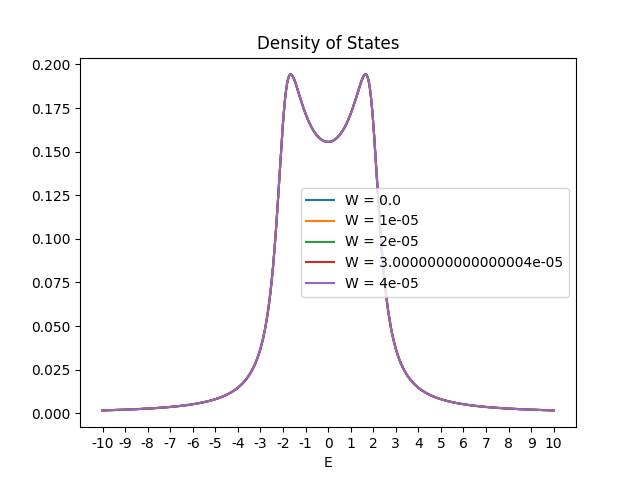
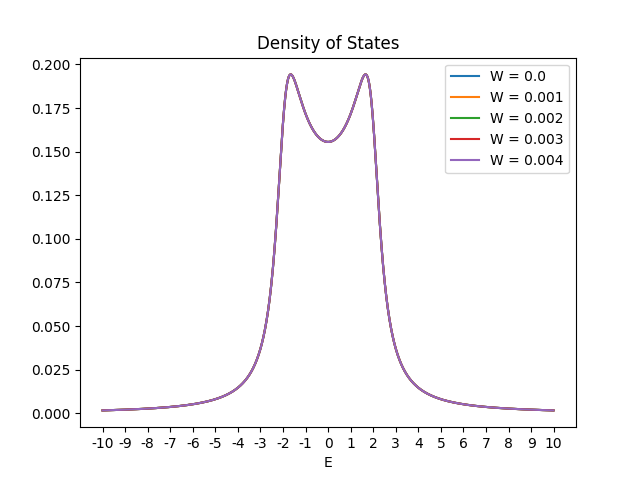
Range of plots

diff --git a/data_gen/main.py b/data_gen/main.py
@@ -37,11 +37,11 @@ def main():
     
     W = 0
     for k in range (5):
-        W = k * 1e-5
+        W = k * 1e-3
         H = generate_hamiltonian(100, W)
     
         energies = eigen_values(H)
-    
+ 
         vals = []
         
         for i in range (-1000,1000):
